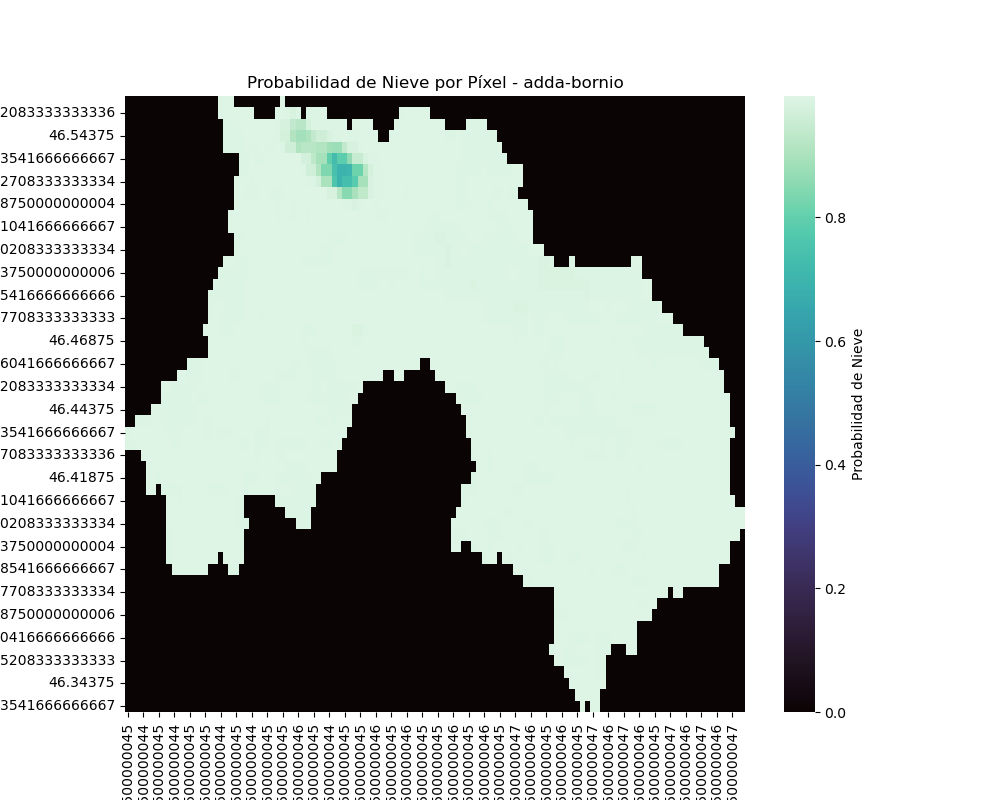
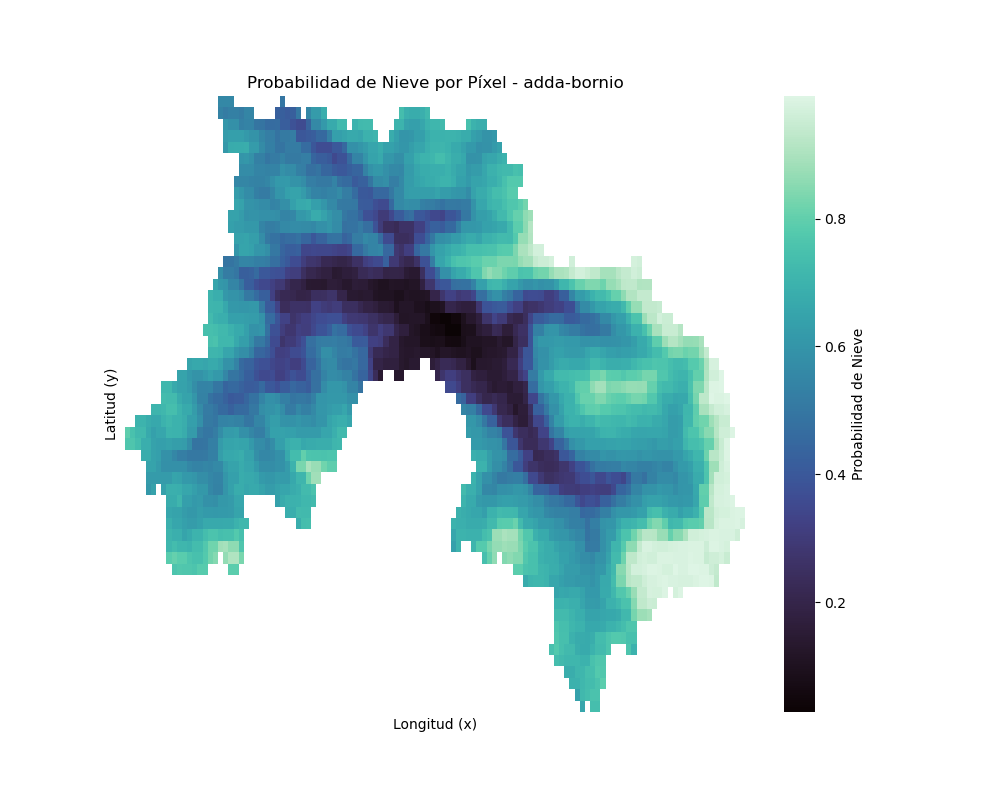
Reprogramacion entera de heatmap.py para el manejo con dataframes

diff --git a/heatmap.py b/heatmap.py
@@ -1,4 +1,3 @@
-#%%
 import rioxarray as rxr
 from pathlib import Path
 import geopandas as gpd
@@ -6,50 +5,52 @@ import os
 import xarray as xr
 import seaborn as sns
 import matplotlib.pyplot as plt
+import pandas as pd
 
 
-external_disk = "D:/"
-data_path = os.path.join(external_disk, "data/")
+data_path = os.path.join("D:/data/")
+
 cuencas = ['genil-dilar','adda-bornio','indrawati-melamchi','machopo-almendros','nenskra-Enguri','uncompahgre-ridgway']
-for cuenca in cuencas:
-    archivos_hdf = [str(archivo) for archivo in Path(data_path + "cuencas" + "/" + cuenca).rglob("*.hdf")]
-    archivos_shp = [str(archivo) for archivo in Path(data_path + "cuencas" + "/" + cuenca).glob("*.shp")]
-    area_path = archivos_shp[0]
-    area = gpd.read_file(area_path)
+# for cuenca in cuencas:
+cuenca = "adda-bornio"
+archivos_hdf = [str(archivo) for archivo in Path(data_path + "cuencas" + "/" + cuenca).rglob("*.hdf")]
+archivos_hdf = archivos_hdf[:1000]
+archivos_shp = [str(archivo) for archivo in Path(data_path + "cuencas" + "/" + cuenca).glob("*.shp")]
+area_path = archivos_shp[0]
+area = gpd.read_file(area_path)
 
-    # Lista para almacenar los arrays booleanos de cobertura de nieve
-    snow_presence_list = []
+# Lista para almacenar los arrays booleanos de cobertura de nieve
+snow_presence_list = []
 
-    for archivo in archivos_hdf:
-        try:
-            snow_cover = rxr.open_rasterio(archivo, masked=True, variable="CGF_NDSI_Snow_Cover").rio.clip(
-                area.geometry.to_list(), crs=area.crs, all_touched=False).squeeze()
+for archivo in archivos_hdf:
+    snow_cover = rxr.open_rasterio(archivo, masked=True, variable="CGF_NDSI_Snow_Cover").rio.clip(
+        area.geometry.to_list(), crs=area.crs, all_touched=False).squeeze()
 
-            snow_presence = (snow_cover > 40) and (snow_cover < 100).astype(int)
-            snow_presence_list.append(snow_presence)
 
-        except Exception as e:
-            print(f"Error al procesar el archivo {archivo}: {e}")
+    snow_cover = snow_cover.to_dataframe().dropna().reset_index()
+    snow_cover['nieve'] = ( (snow_cover.CGF_NDSI_Snow_Cover > 40) & (snow_cover.CGF_NDSI_Snow_Cover < 100) ).astype(int)
+    snow_cover.drop(columns=['band', 'spatial_ref', 'CGF_NDSI_Snow_Cover'], inplace = True)
 
-    if snow_presence_list:
-        snow_presence_stacked = xr.concat(snow_presence_list, dim='time')
-        probability_snow = snow_presence_stacked.mean(dim='time')
+    snow_presence_list.append(snow_cover)
 
-        # Convertir a DataFrame especificando el nombre de la variable en .to_dataframe()
-        probability_df = probability_snow.to_dataframe().reset_index().rename(columns={'CGF_NDSI_Snow_Cover': 'probability'})
+if snow_presence_list:
 
-        probability_pivot = probability_df.pivot(index='y', columns='x', values='probability')
+    df_media = pd.concat(snow_presence_list, ignore_index=True)
+    df_media = df_media.groupby(['x', 'y'])['nieve'].mean().reset_index()
 
-        plt.figure(figsize=(10, 8))
-        sns.heatmap(probability_pivot, cmap='mako', cbar_kws={'label': 'Probabilidad de Nieve'})
-        plt.title(f'Probabilidad de Nieve por Píxel - {cuenca}')
-        plt.xlabel('Longitud (x)')
-        plt.ylabel('Latitud (y)')
-        plt.xticks([])  # Eliminar marcas del eje x
-        plt.yticks([])  # Eliminar marcas del eje y
-        plt.gca().invert_yaxis()
-        plt.savefig(f"img/heatmaps/{cuenca}-probability.png")
-        plt.close()
+    probability_pivot = df_media.pivot(index='y', columns='x', values='nieve')
 
-    else:
-        print("No se encontraron datos de cobertura de nieve para procesar.")
+    plt.figure(figsize=(10, 8))
+    sns.heatmap(probability_pivot, cmap='mako', cbar_kws={'label': 'Probabilidad de Nieve'})
+    plt.title(f'Probabilidad de Nieve por Píxel - {cuenca}')
+    plt.xlabel('Longitud (x)')
+    plt.ylabel('Latitud (y)')
+    plt.xticks([])  # Eliminar marcas del eje x
+    plt.yticks([])  # Eliminar marcas del eje y
+    plt.gca().invert_yaxis()
+    plt.savefig(f"img/heatmaps/{cuenca}-probability.png")
+    plt.show()
+    plt.close()
+
+else:
+    print("No se encontraron datos de cobertura de nieve para procesar.")

diff --git a/limpieza_datos.py b/limpieza_datos.py
@@ -9,7 +9,7 @@ import rioxarray as rxr
 import concurrent.futures
 import numpy as np
 
-external_disk = "E:/"
+external_disk = "D:/"
 data_path = os.path.join(external_disk, "data/")
 #%%
 # Leo datos sobre variables exogenas: temperatura y precipitacion
@@ -87,7 +87,6 @@ def procesar_archivo(cuenca, area, archivo):
 
 def procesar_cuenca(cuenca):
     archivos_hdf = [str(archivo) for archivo in Path(data_path + "cuencas" +"/" + cuenca).rglob("*.hdf")]
-    archivos_hdf = archivos_hdf[:1000]
     archivos_shp = [str(archivo) for archivo in Path(data_path + "cuencas" +"/" + cuenca).glob("*.shp")]
     area_path = archivos_shp[0]
     area = gpd.read_file(area_path)

diff --git a/procesamiento_datos.py b/procesamiento_datos.py
@@ -2,6 +2,8 @@
 import pandas as pd
 import numpy as np
 from sklearn.preprocessing import MinMaxScaler
+import seaborn as sns
+import matplotlib.pyplot as plt
 #%%
 csv_path = "D:/data/csv/"
 cuencas = ['genil-dilar','adda-bornio','indrawati-melamchi','machopo-almendros','nenskra-Enguri','uncompahgre-ridgway']
@@ -109,6 +111,11 @@ adda_norm.to_csv(".")
 #%%
 corr = genil.corr(numeric_only=True)
 corr.style.background_gradient(cmap="coolwarm")
+#%%
+corr = genil.corr(numeric_only=True)
+sns.heatmap(corr, annot=True, cmap='coolwarm', fmt='.2f')
+plt.title = "Correlacion de la cuenca genil-dilar"
+plt.show()
 
 #%%
 corr = indrawati.corr(numeric_only=True)
